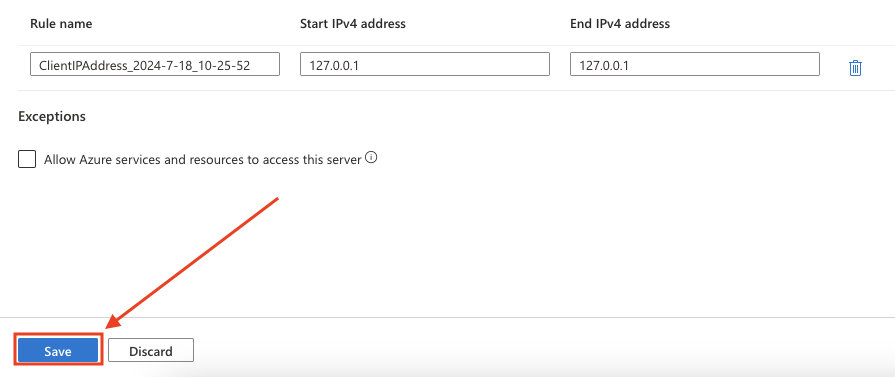
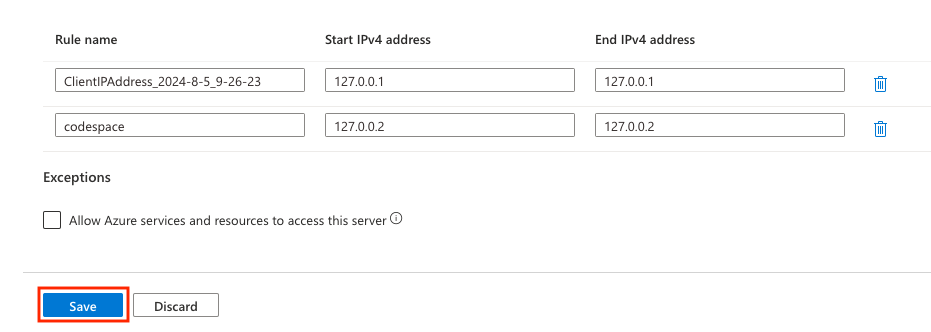
v1.8

diff --git a/docs/5-deploy-to-azure.md b/docs/5-deploy-to-azure.md
@@ -102,6 +102,26 @@ The next section of the workshop will be using an Azure SQL Database. To move ou
 
     ![A picture of clicking the button labeled "Add your client IPv4 address (X.X.X.X)" to add your local IP address for database access](./media/ch5/deploy1v.png)
 
+1. Next, we need to add the codespace IP address so we can deploy the project to this Azure SQL database.
+
+    Back in the codespace, at a terminal, run the following code:
+
+    ```BASH
+    curl icanhazip.com
+    ```
+
+    This should return an IP address; the IP address of your code space.
+
+    ![A picture of the codespace ip address](./media/ch5/deploy1xIP1.png)
+
+1. Back in the Azure portal, the firewall rules page, click the **+ Add a firewall rule** button
+
+    ![A picture of clicking the Add a firewall rule button](./media/ch5/deploy1xIP2.png)
+
+1. In the pop up box, name the rule **codespace**. Then enter the **IP address** you got back from the curl command above for both the **StartIP** and **EndIP** fields. Then click the blue **OK** button.
+
+    ![A picture of setting up a rule for the codespace in the firewall](./media/ch5/deploy1xIP3.png)
+
 1. Finally, click the **Save** button in the lower left of the page.
 
     ![A picture of clicking the save button in the lower left of the page](./media/ch5/deploy1x.png)
